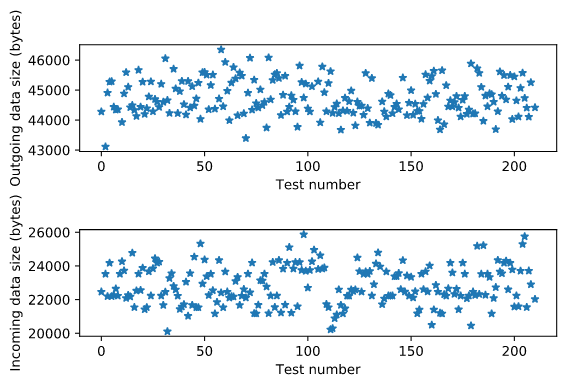
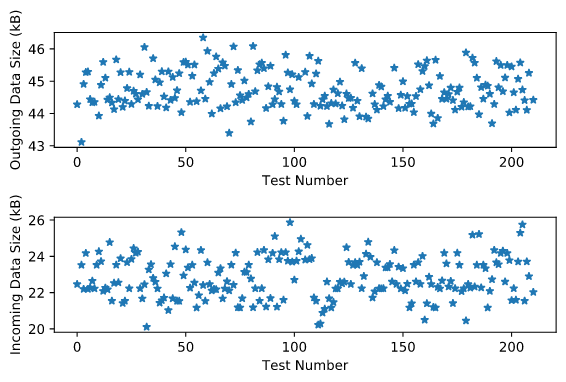
Plot updates

Changed region(s): [[0.0, 0.0288, 0.9912, 0.9791]]

diff --git a/measurement/analysis/analyze_overnight.py b/measurement/analysis/analyze_overnight.py
@@ -16,7 +16,7 @@ def get_time_secs(packet, start_time):
     return time
 
 # set file number to analyze (see filenames below)
-file_test_number = 5
+file_test_number = 3
 
 # set filename(s) to scan
 script_dir = os.path.dirname(os.path.abspath(__file__))
@@ -38,6 +38,15 @@ savedirs = ['../../results/1202/',
             '../../results/1207night/']
 savedirs = [base_dir + '/' + f for f in savedirs]
 savedir = savedirs[file_test_number]
+
+# set plot xlabels
+xlabels = ['',
+           'Prefix Length (s)',
+           'Prefix Length (s)',
+           'Postfix Length (s)',
+           'Postfix Length (s)',
+           'Time Gap (s)']
+xlabel = xlabels[file_test_number]
 
 # other test specific params
 init_skip_a = [0, 0, 0, 0, 3, 0]
@@ -310,10 +319,10 @@ total_size_in = []
 # get sum of data for each test frame
 for x in out_sizes[init_skip:]:
     # total_size_out.append(np.sum(np.sum(x)))
-    total_size_out.append(np.max([np.sum(y) for y in x]))
+    total_size_out.append(np.max([np.sum(y) for y in x])/1e3)
 for x in in_sizes[init_skip:]:
     # total_size_in.append(np.sum(np.sum(x)))
-    total_size_in.append(np.max([np.sum(y) for y in x]))
+    total_size_in.append(np.max([np.sum(y) for y in x])/1e3)
 
 # do some filtering (z-value method)
 # def filt(x, z):
@@ -329,7 +338,8 @@ for x in in_sizes[init_skip:]:
 
 # do some filtering (IQR method)
 def filt(x, q1, q3, iqr):
-    if x > q1-1.5*iqr and x < q3+1.5*iqr:
+    iqr_thresh = 1.5
+    if x > q1-iqr_thresh*iqr and x < q3+iqr_thresh*iqr:
         return x
     else:
         print('Filtered value {}'.format(x))
@@ -351,12 +361,12 @@ plt.figure()
 plt.subplot(2,1,1)
 plt.plot(total_size_out_filt, '*')
 # plt.ylim(40000,75000)
-plt.xlabel('Test number')
-plt.ylabel('Outgoing data size (bytes)')
+plt.xlabel('Test Number')
+plt.ylabel('Outgoing Data Size (kB)')
 plt.subplot(2,1,2)
 plt.plot(total_size_in_filt, '*')
-plt.xlabel('Test number')
-plt.ylabel('Incoming data size (bytes)')
+plt.xlabel('Test Number')
+plt.ylabel('Incoming Data Size (kB)')
 plt.tight_layout()
 plt.show()
 
@@ -365,11 +375,11 @@ num_bins = 20
 plt.figure()
 plt.subplot(2,1,1)
 plt.hist(total_size_out_filt, num_bins)
-plt.xlabel('Outgoing data size (bytes)')
+plt.xlabel('Outgoing Data Size (kB)')
 plt.ylabel('Frequency')
 plt.subplot(2,1,2)
 plt.hist(total_size_in_filt, num_bins)
-plt.xlabel('Incoming data size (bytes)')
+plt.xlabel('Incoming Data Size (kB)')
 plt.ylabel('Frequency')
 plt.tight_layout()
 plt.show()
@@ -390,15 +400,43 @@ for i in range(num_tests):
 
 # plot average size with error bars against prefix length
 plt.figure()
-plt.errorbar(prefix_times, means_out, yerr=stds_out, fmt='*')
-plt.xlabel('Postfix Time (s)')
-plt.ylabel('Average Outgoing Data Size (bytes)')
+plt.errorbar(prefix_times, means_out, yerr=stds_out, fmt='*', capsize=4)
+# plt.errorbar([1,0], means_out, yerr=stds_out, fmt='*', capsize=4)
+# plt.xticks(ticks = [1,0], labels=prefix_times)
+# plt.xlim([-0.5, 1.5])
+plt.xlabel(xlabel)
+plt.ylabel('Average Outgoing Data Size (kB)')
 plt.show()
 
 plt.figure()
-plt.errorbar(prefix_times, means_in, yerr=stds_in, fmt='*')
-plt.xlabel('Postfix Time (s)')
-plt.ylabel('Average Incoming Data Size (bytes)')
+plt.errorbar(prefix_times, means_in, yerr=stds_in, fmt='*', capsize=4)
+# plt.errorbar([1,0], means_in, yerr=stds_in, fmt='*', capsize=4)
+# plt.xticks(ticks = [1,0], labels=prefix_times)
+# plt.xlim([-0.5, 1.5])
+plt.xlabel(xlabel)
+plt.ylabel('Average Incoming Data Size (kB)')
+plt.show()
+
+# %%
+## Print general statistics
+# equalvar_ttest = stats.ks_2samp([x for x in total_size_out_filt[0::num_tests] if np.isfinite(x)], \
+#                                 [x for x in total_size_out_filt[1::num_tests] if np.isfinite(x)])
+
+
+for i in range(num_tests):
+    print('Prefix: {}'.format(prefix_times[i]))
+    print('Mean: {}'.format(means_out[i]))
+    print('Standard deviation: {}'.format(stds_out[i]))
+    print('Median: {}'.format(np.median(total_size_out[i::num_tests])))
+
+# print('T-test equal population variance: {}'.format(equalvar_ttest))
+
+# Individual histograms
+plt.figure()
+plt.subplot(1,2,1)
+plt.hist(total_size_out_filt[0::num_tests])
+plt.subplot(1,2,2)
+plt.hist(total_size_out_filt[1::num_tests])
 plt.show()
 
 
@@ -453,26 +491,26 @@ for i in range(num_tests):
 
 # plot average size with error bars against prefix length
 plt.figure()
-plt.errorbar(prefix_times, resp_means_out, yerr=resp_stds_out, fmt='*')
-plt.errorbar(prefix_times, noresp_means_out, yerr=noresp_stds_out, fmt='*')
+plt.errorbar(prefix_times, resp_means_out, yerr=resp_stds_out, fmt='*', capsize=4)
+plt.errorbar(prefix_times, noresp_means_out, yerr=noresp_stds_out, fmt='*', capsize=4)
 plt.legend(['Response', 'No response'])
-plt.xlabel('Time Gap (s)')
-plt.ylabel('Average Outgoing Data Size (bytes)')
+plt.xlabel(xlabel)
+plt.ylabel('Average Outgoing Data Size (kB)')
 plt.show()
 
 plt.figure()
-plt.errorbar(prefix_times, resp_means_in, yerr=resp_stds_in, fmt='*')
-plt.errorbar(prefix_times, noresp_means_in, yerr=noresp_stds_in, fmt='*')
+plt.errorbar(prefix_times, resp_means_in, yerr=resp_stds_in, fmt='*', capsize=4)
+plt.errorbar(prefix_times, noresp_means_in, yerr=noresp_stds_in, fmt='*', capsize=4)
 plt.legend(['Response', 'No response'])
-plt.xlabel('Time Gap (s)')
-plt.ylabel('Average Incoming Data Size (bytes)')
+plt.xlabel(xlabel)
+plt.ylabel('Average Incoming Data Size (kB)')
 plt.show()
 
 plt.figure()
 plt.bar(prefix_times, resp_counts, width = 0.08)
 plt.bar(prefix_times, noresp_counts, width = 0.08, bottom=resp_counts)
 plt.legend(['Response', 'No response'])
-plt.xlabel('Time Gap (s)')
+plt.xlabel(xlabel)
 plt.ylabel('Response Breakdown')
 plt.ylim(top=16)
 plt.show()
@@ -481,7 +519,7 @@ plt.show()
 ## STATISTICS BY PREFIX LENGTH SEPARATE PLOTS FOR INCOMING RESPONSE SIZE
 
 def sep(x, i, level):
-    bounds = [0, 10000, 20000, 30000]
+    bounds = [0, 10, 20, 30]
     cmp_val = total_size_in_filt[i]
     if np.isnan(cmp_val):
         return np.nan
@@ -525,17 +563,17 @@ for j in range(3):
 # plot average size with error bars against prefix length
 plt.figure()
 for i in range(3):
-    plt.errorbar(prefix_times, split_means_out[i], yerr=split_stds_out[i], fmt='*')
+    plt.errorbar(prefix_times, split_means_out[i], yerr=split_stds_out[i], fmt='*', capsize=4)
 plt.legend(['No reply', 'Error reply', 'Correct reply'])
-plt.xlabel('Time Gap (s)')
+plt.xlabel(xlabel)
 plt.ylabel('Average Outgoing Data Size (bytes)')
 plt.show()
 
 plt.figure()
 for i in range(3):
-    plt.errorbar(prefix_times, split_means_in[i], yerr=split_stds_in[i], fmt='*')
+    plt.errorbar(prefix_times, split_means_in[i], yerr=split_stds_in[i], fmt='*', capsize=4)
 plt.legend(['No reply', 'Error reply', 'Correct reply'])
-plt.xlabel('Time Gap (s)')
+plt.xlabel(xlabel)
 plt.ylabel('Average Incoming Data Size (bytes)')
 plt.show()
 
@@ -544,7 +582,7 @@ plt.bar(prefix_times, split_counts[0], width = 0.08)
 plt.bar(prefix_times, split_counts[1], width = 0.08, bottom=split_counts[0])
 plt.bar(prefix_times, split_counts[2], width = 0.08, bottom=[sum(x) for x in zip(split_counts[0], split_counts[1])])
 plt.legend(['No reply', 'Error reply', 'Correct reply'], ncol=3)
-plt.xlabel('Time Gap (s)')
+plt.xlabel(xlabel)
 plt.ylabel('Reply Type Breakdown')
 plt.ylim(top=15)
 plt.show()
